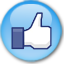
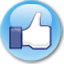
Fix some achievement images
* Get rid of crap in bottom right from Unfrigginbelievable
* Remove white background from Oooh, Shiny! and Preventing Boredom (now transparent)
* Add secret achievement icon and fix image path in template
* Change grayscaling logic for secret achievement

Changed region(s): [[0.0, 0.0, 0.9688, 0.9688], [0.2188, 0.1562, 0.25, 0.1875]]

diff --git a/quark/achievements/templates/achievements/_display_achievement.html b/quark/achievements/templates/achievements/_display_achievement.html
@@ -9,7 +9,7 @@ is secret and not also unlocked by the page viewer.
 <li class="achievement{% if hidden_from_viewer %} hidden{% endif %}">
   <div class="icon">
     {% if hidden_from_viewer %}
-    <img src="{% get_static_prefix %}images/achievements/hidden.jpg"/>
+    <img{% if unacquired %} class="grayscale"{% endif %} src="{% get_static_prefix %}images/achievements/hidden.png"/>
     {% else %}
     <a href="{% url 'achievements:detail' achievement.short_name %}">
       <img{% if unacquired %} class="grayscale"{% endif %} src="{% get_static_prefix %}{% firstof achievement.icon_filename 'images/missing.jpg' %}">

diff --git a/quark/achievements/templates/achievements/user.html b/quark/achievements/templates/achievements/user.html
@@ -32,7 +32,7 @@
 <ul class="achievements-list locked">
   {% for entry in locked_list %}
     {% if entry.achievement.privacy == 'secret' and entry.achievement not in viewer_secret_achievements %}
-      {% include 'achievements/_display_achievement.html' with hidden_from_viewer=True %}
+      {% include 'achievements/_display_achievement.html' with hidden_from_viewer=True unacquired=True %}
     {% else %}
       {% include 'achievements/_display_achievement.html' with hidden_from_viewer=False achievement=entry.achievement progress=entry.progress unacquired=True %}
     {% endif %}
